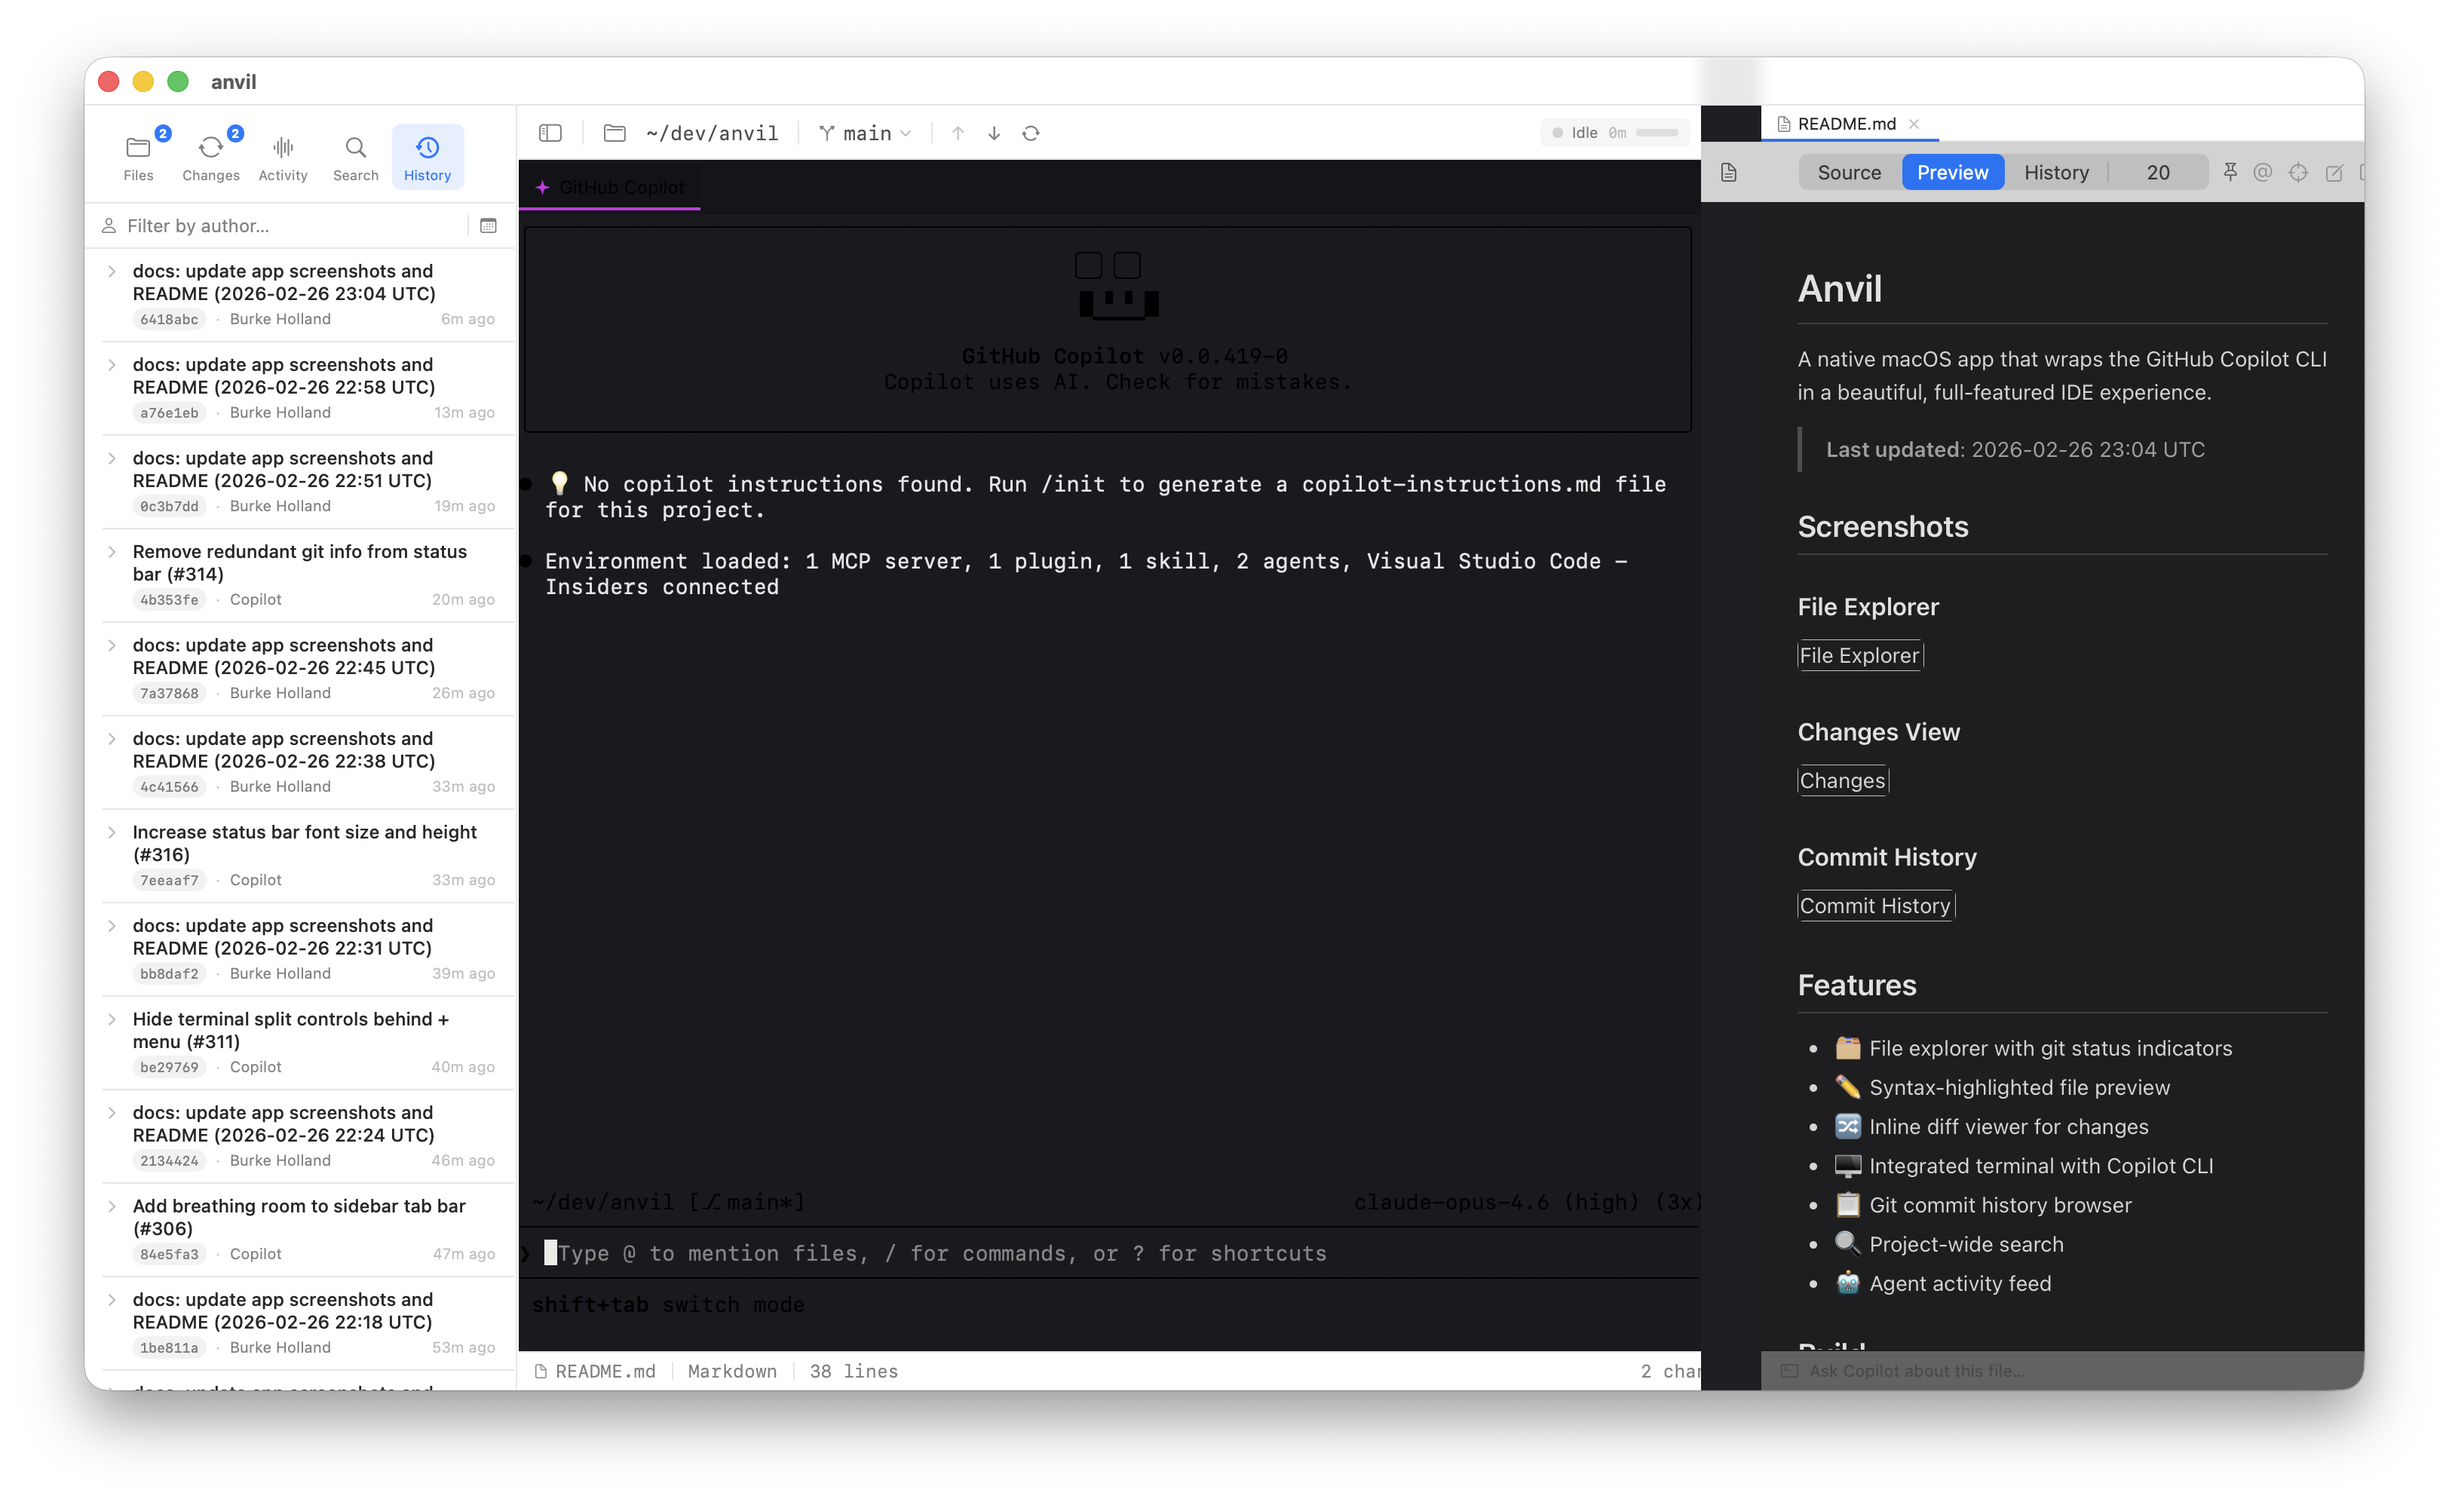
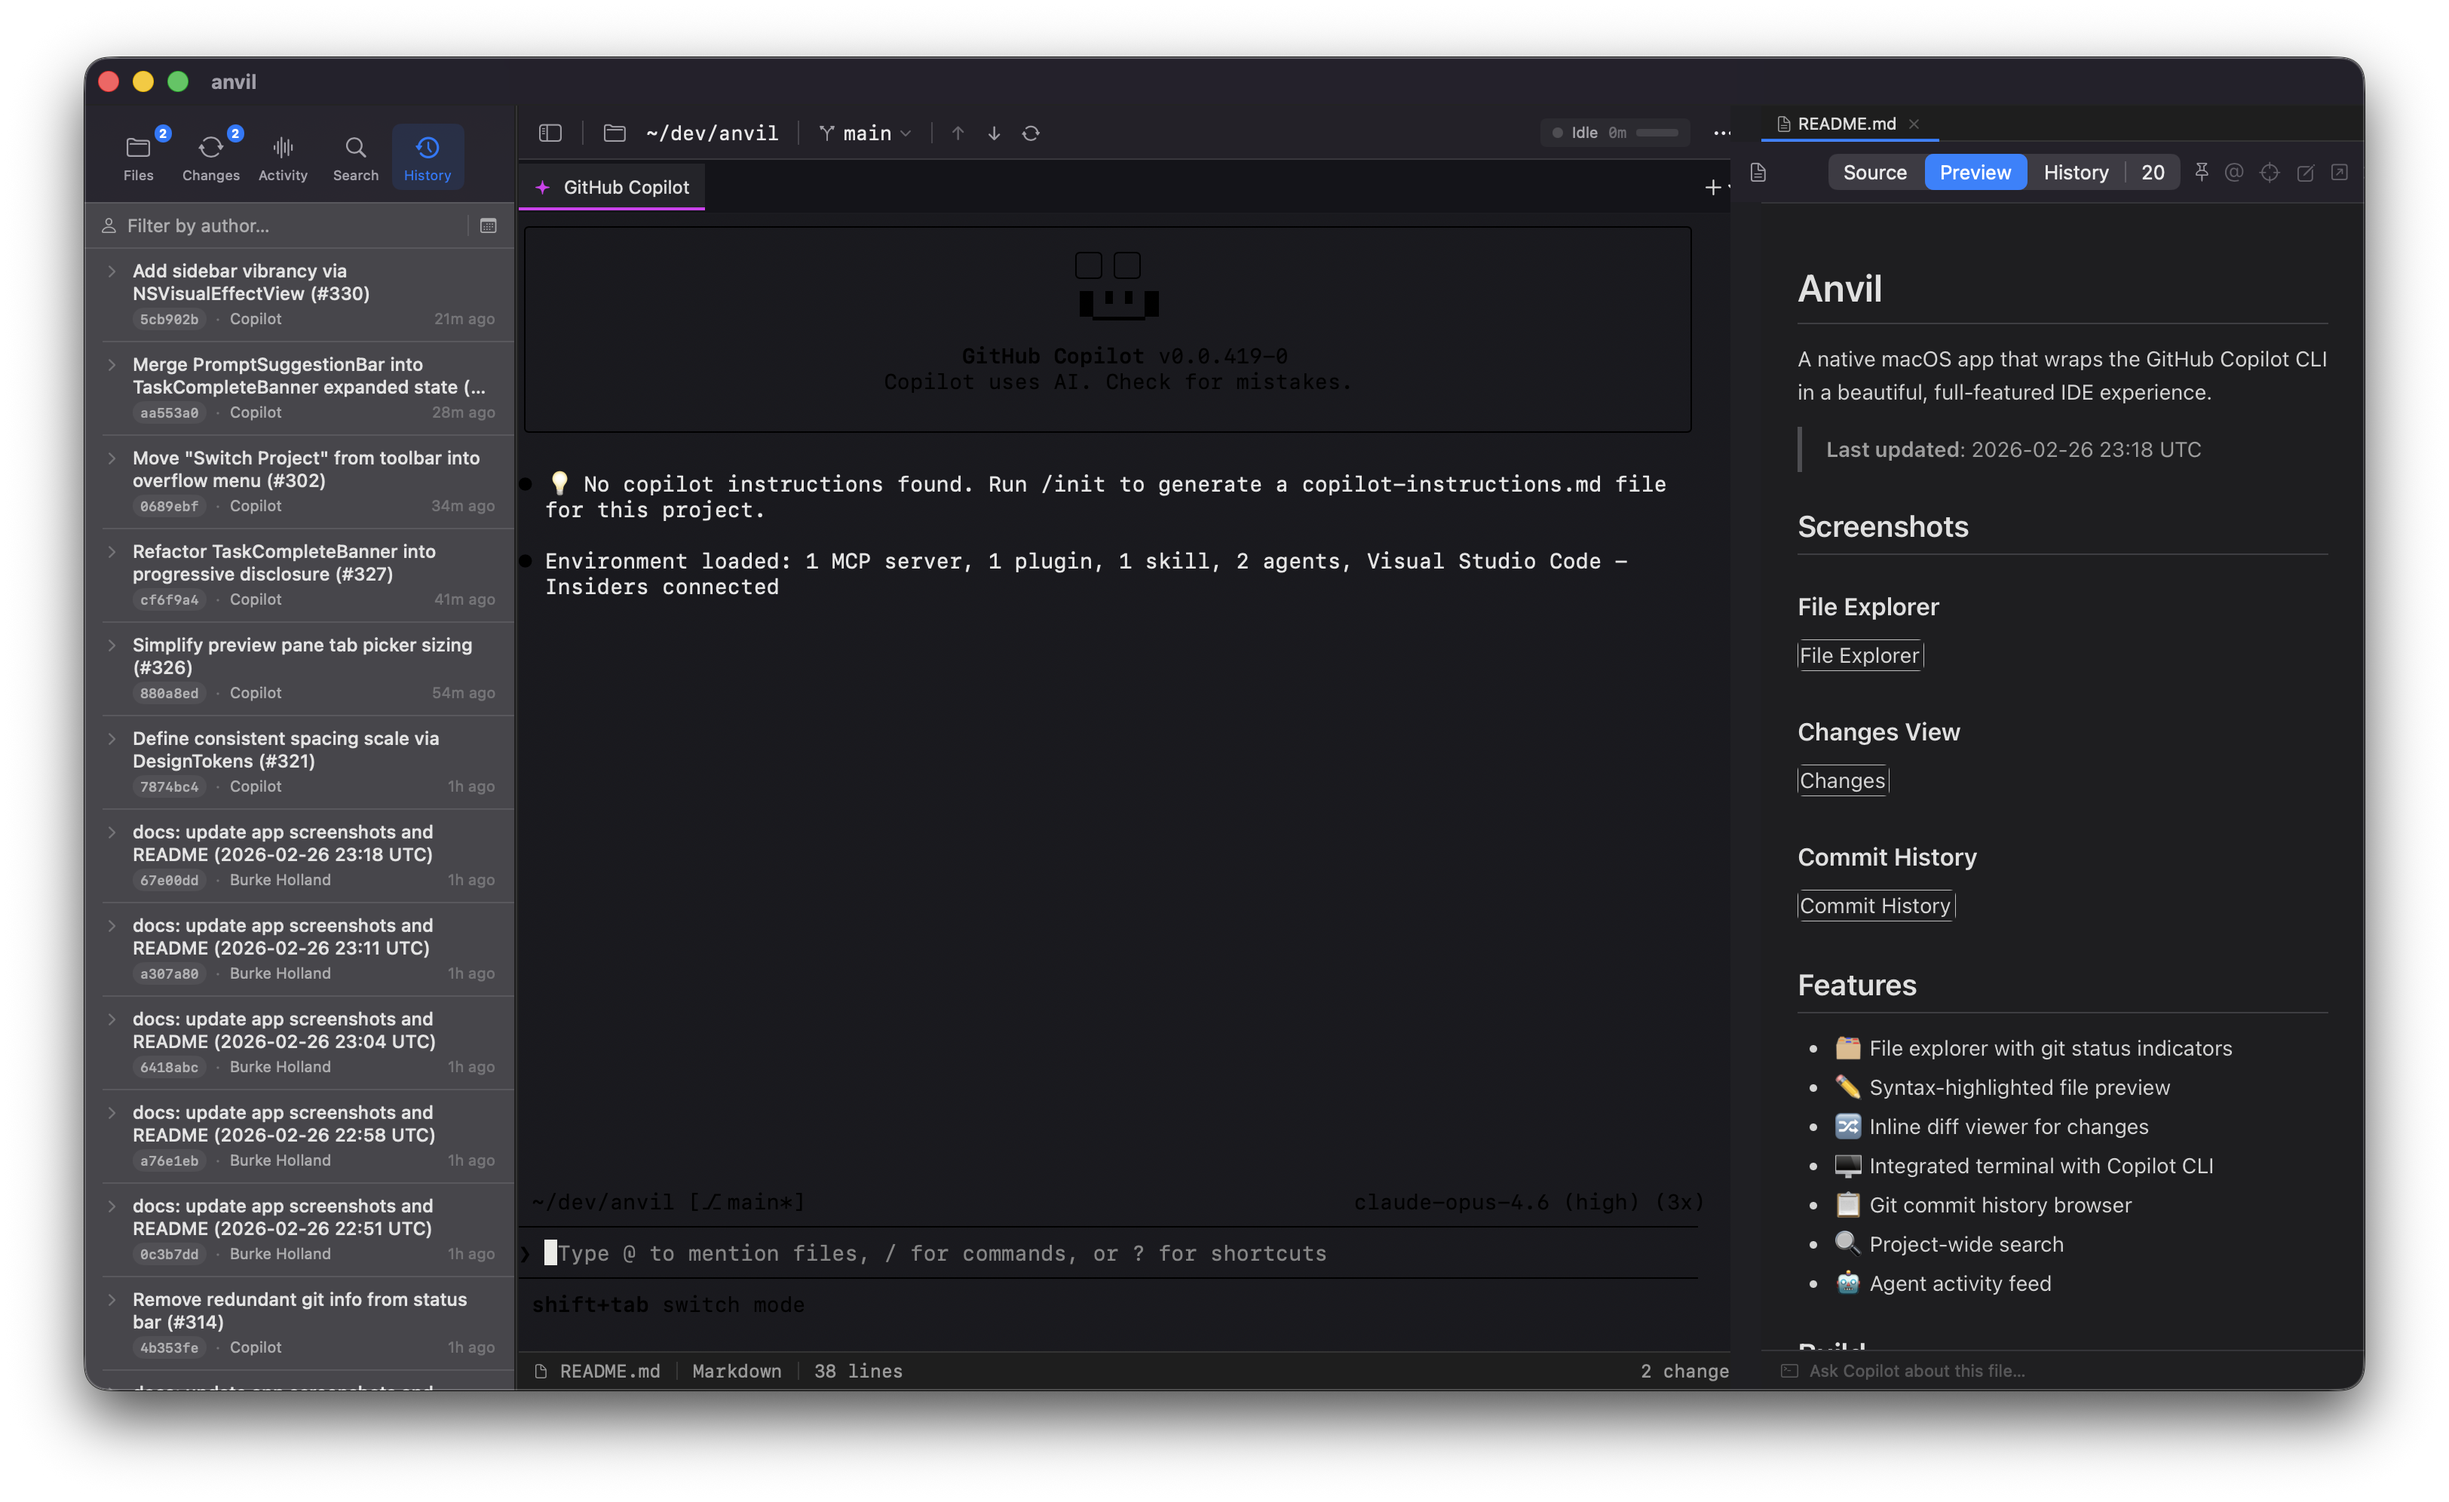
docs: update app screenshots and README (2026-02-27 00:25 UTC)

Changed region(s): [[0.0311, 0.0311, 0.9951, 0.9649], [0.8707, 0.2801, 0.9018, 0.3112]]

diff --git a/README.md b/README.md
@@ -2,7 +2,7 @@
 
 A native macOS app that wraps the GitHub Copilot CLI in a beautiful, full-featured IDE experience.
 
-> **Last updated**: 2026-02-26 23:18 UTC
+> **Last updated**: 2026-02-27 00:25 UTC
 
 ## Screenshots
 
